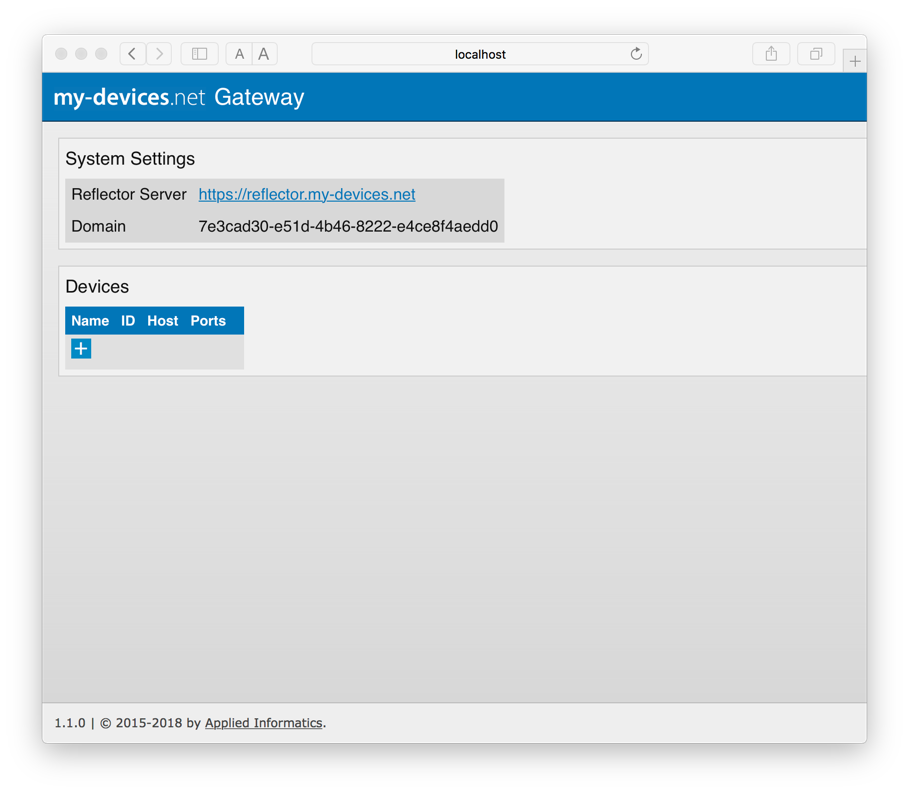
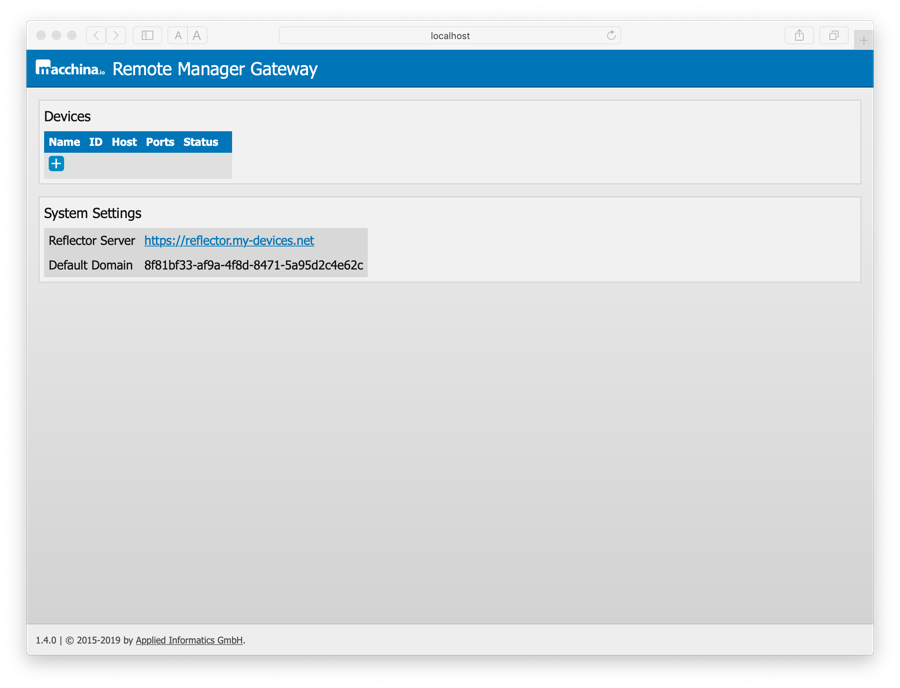
updated README.md

Changed region(s): [[0.0311, 0.0305, 0.9956, 0.4578], [0.0311, 0.7631, 0.9956, 0.9767], [0.9333, 0.9462, 0.9644, 0.9767]]

diff --git a/README.md b/README.md
@@ -142,10 +142,11 @@ Enter the following information to make the Gateway's web user interface accessi
 via Remote Manager:
 
   - **Name:** `Gateway`
+  - **Domain:** *(leave as is)*
+  - **Device Password:** *(leave empty)*
   - **Device IP Address or Domain Name:** `127.0.0.1`
   - **Forwarded TCP Ports:** `8080`
   - **Device HTTP Server Port:** `8080`
-  - **Device Password:** *(leave empty)*
 
 ![Gateway Web User Interface - Add Device][browser2]
 
@@ -155,9 +156,14 @@ You will now see it in the overview:
 
 ![Gateway Web User Interface - Device Added][browser3]
 
+Note that *Status* may initially show *disconnected* for your newly added device.
+The page will refresh automatically after 10 seconds, and the status should
+change to *connected*. If the status shows *error*, click on the device to
+see the error message.
+
 The Gateway should now be visible in your [Remote Manager Dashboard](https://reflector.my-devices.net).
 
-You can now start adding other devices as well.
+You can now add other devices.
 
 
 [browser1]: doc/images/browser1.png "Gateway Web User Interface - First Start"
